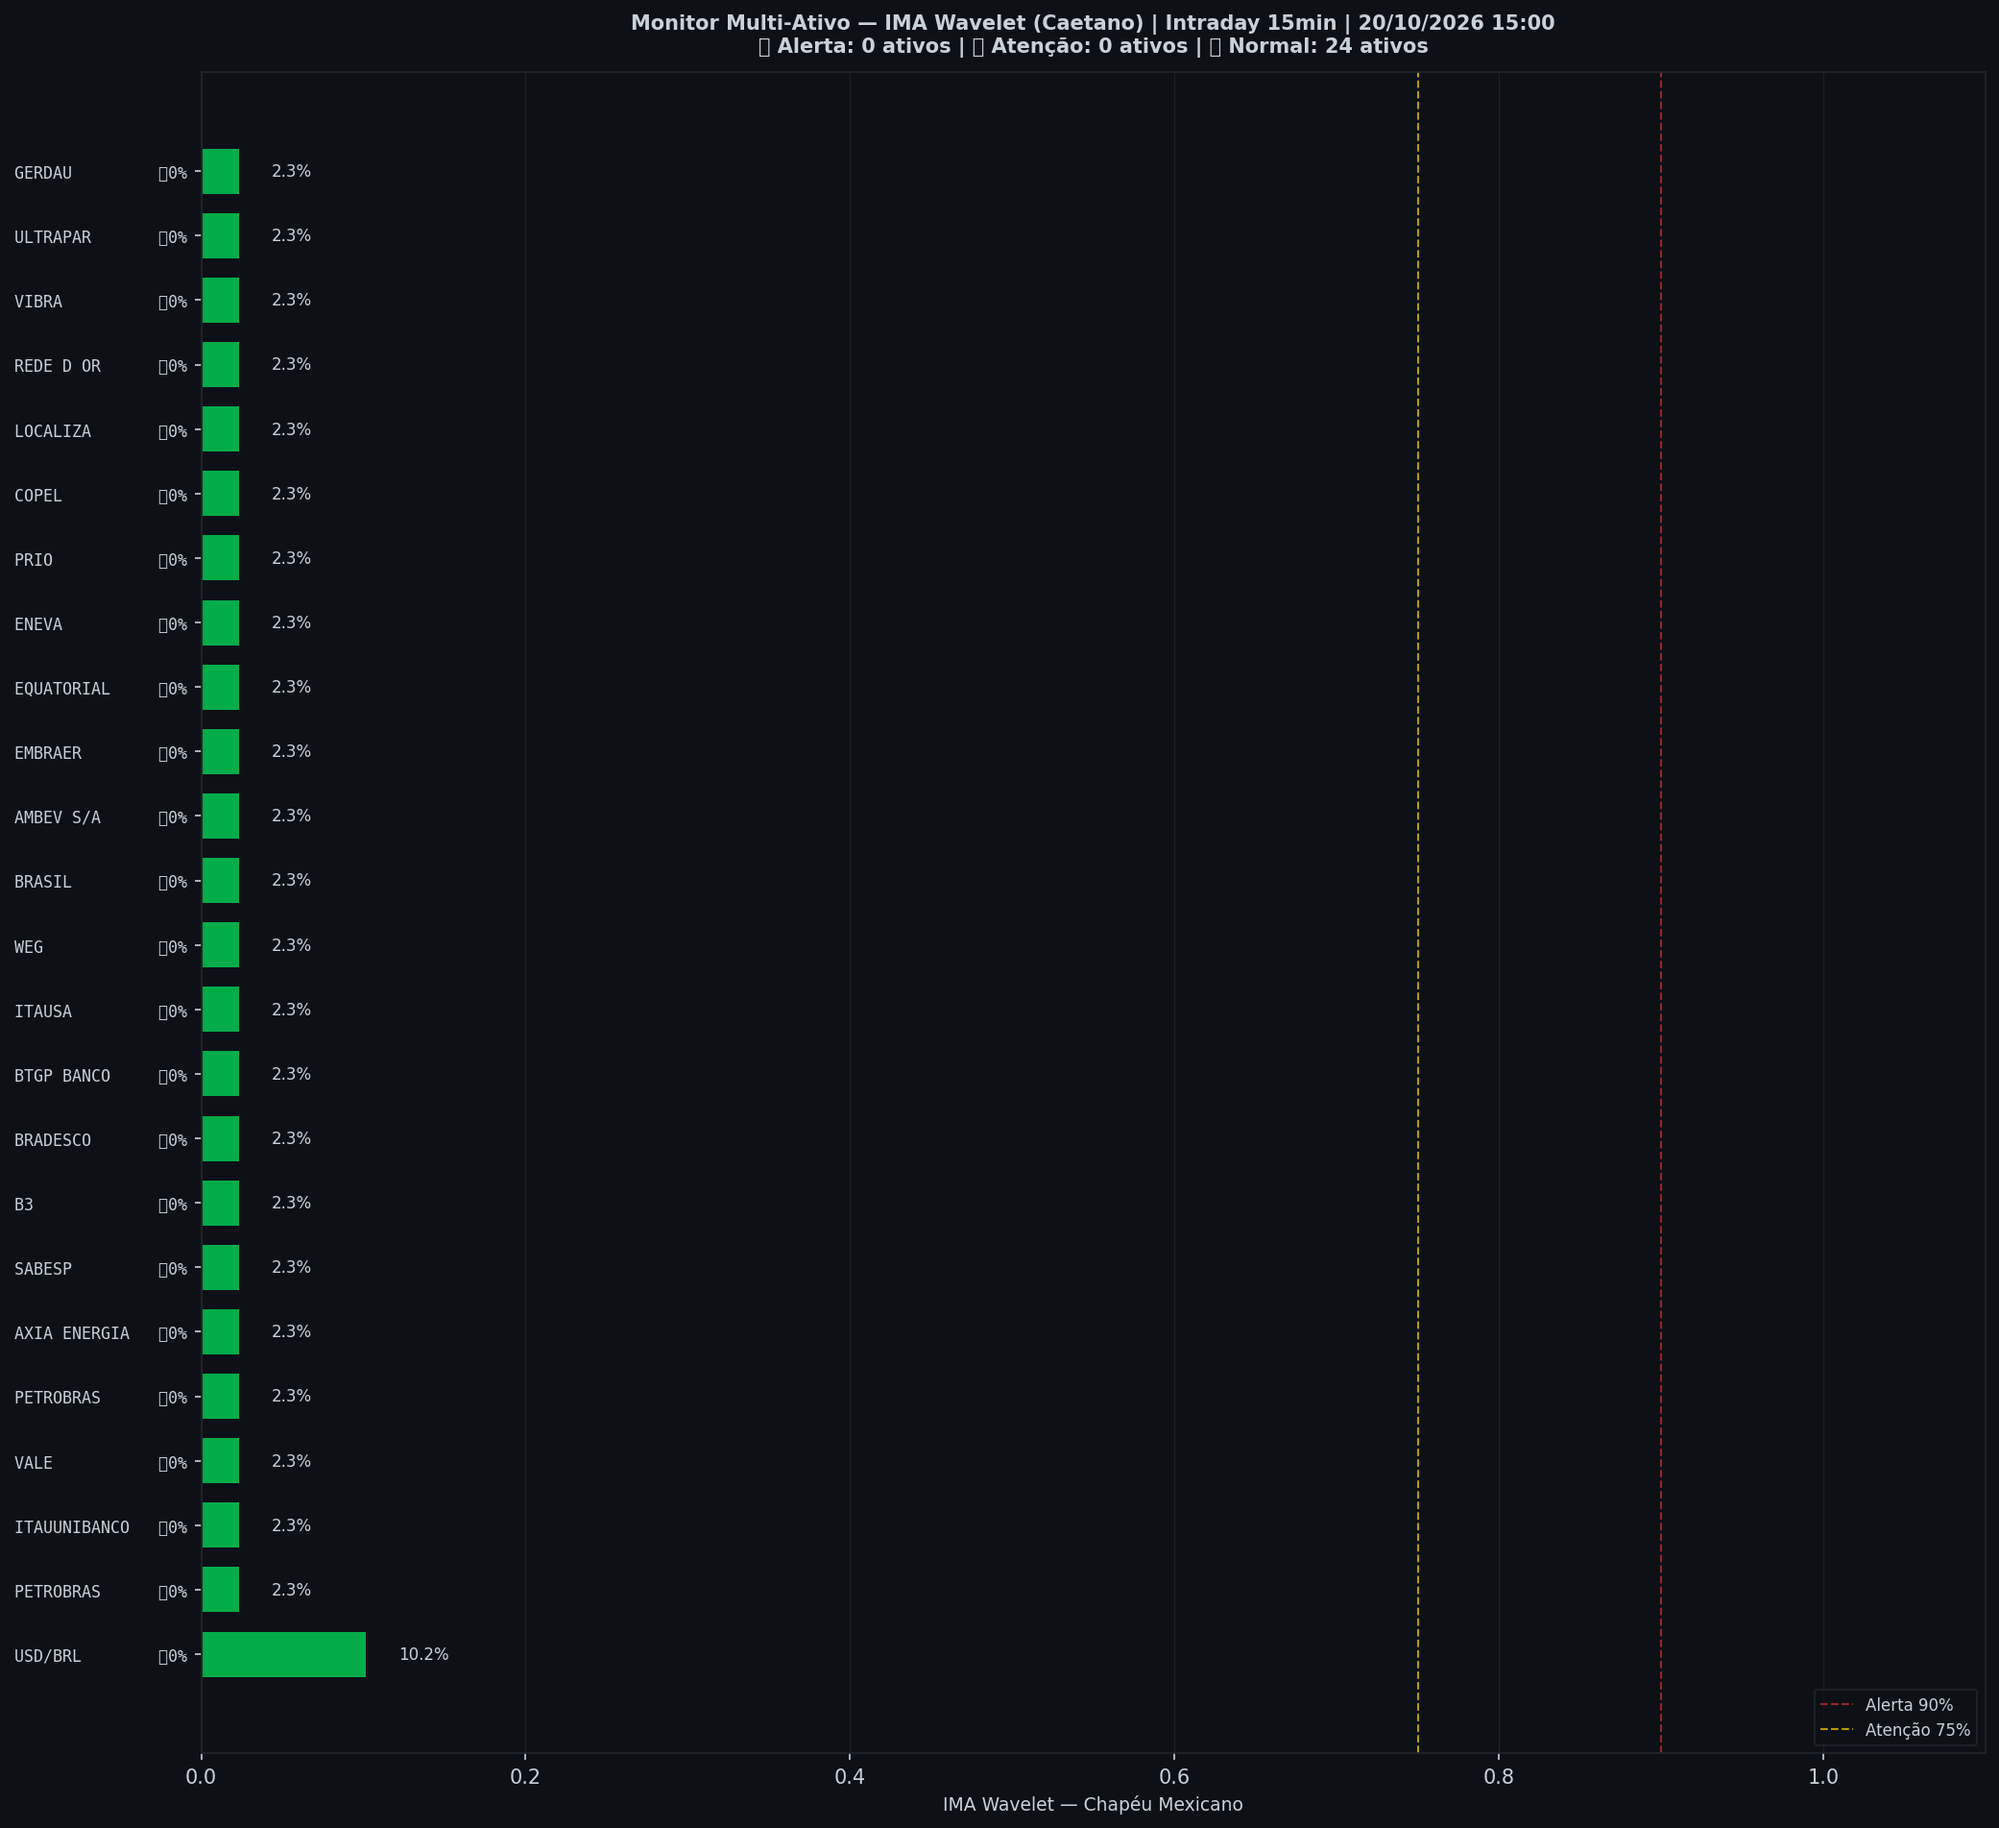
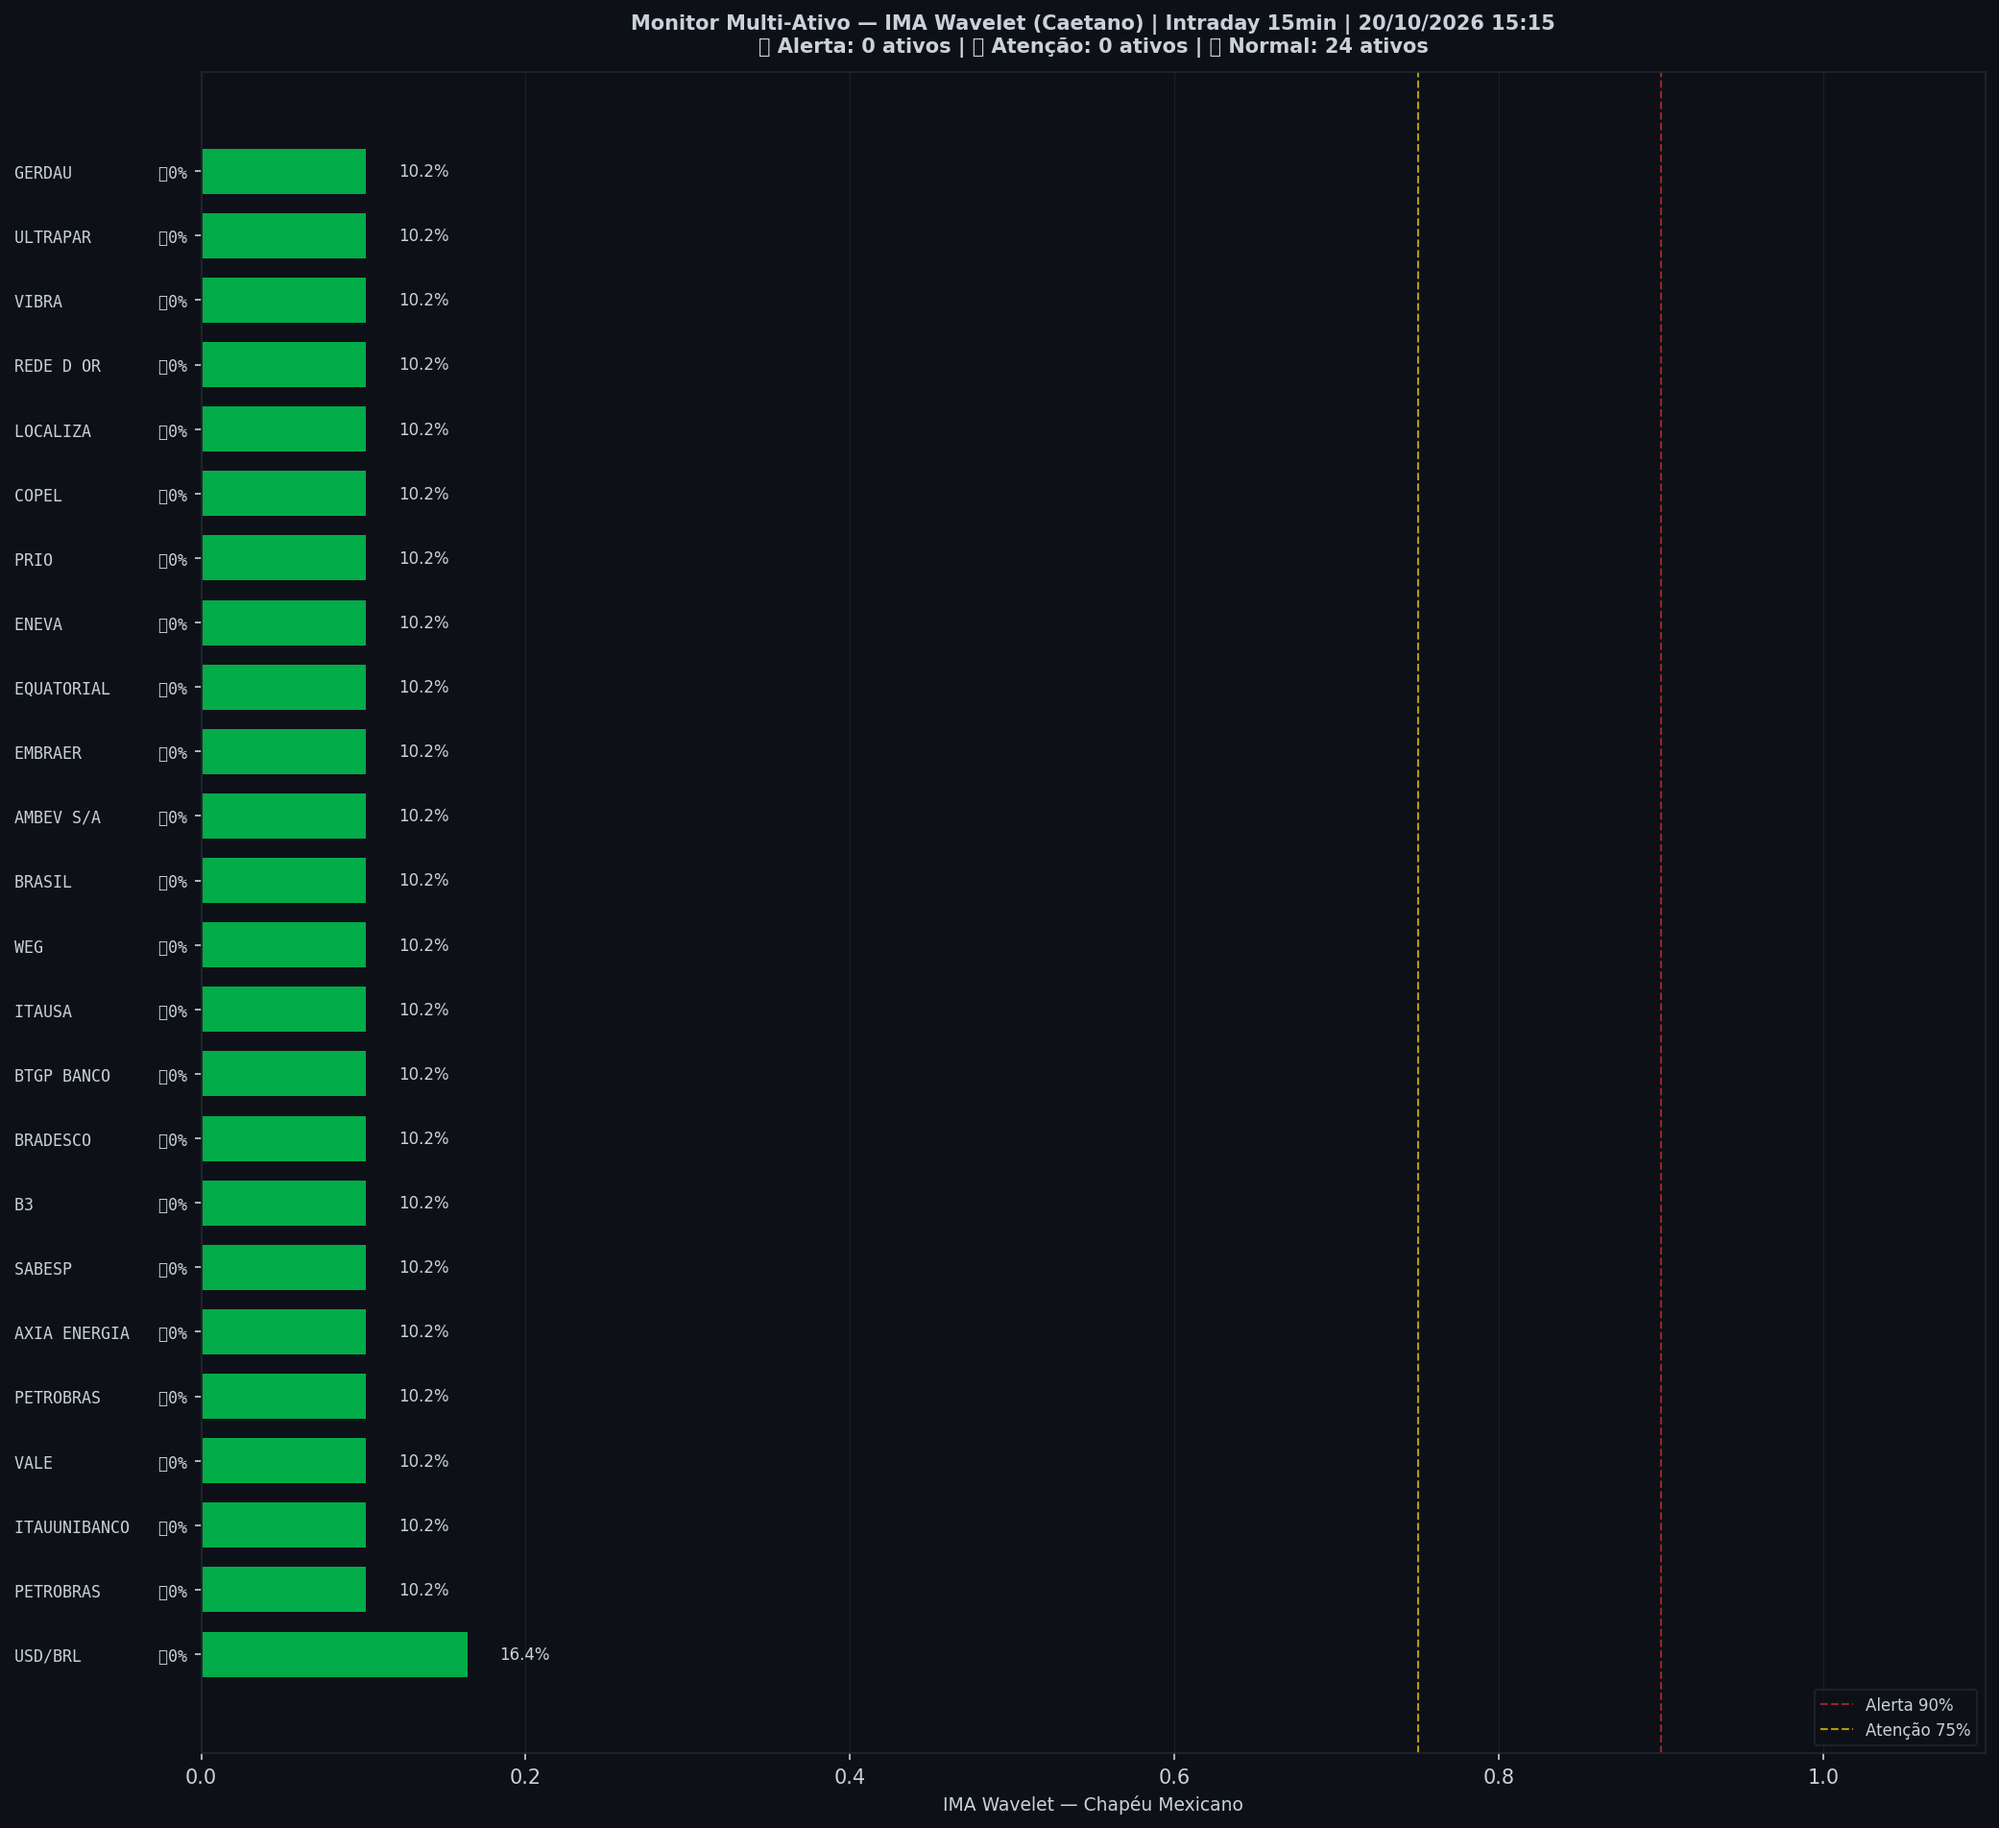
🤖 Auto: Sinal 20/10/2026 15:15

Changed region(s): [[0.0937, 0.062, 0.2498, 0.9301]]

diff --git a/content/intraday/2026-10-20.md b/content/intraday/2026-10-20.md
@@ -1,10 +1,10 @@
 ---
-title: "🟢 Intraday 20/10/2026 14:15 BRT — VERDE"
+title: "🟢 Intraday 20/10/2026 14:30 BRT — VERDE"
 date: 2026-10-20
 tags: [intraday]
 ---
 
-> [!success] 🟢 **VERDE** — Risco 57% · ▲ +2 p.p. vs leitura anterior
+> [!success] 🟢 **VERDE** — Risco 57% · ＝ +0 p.p. vs leitura anterior
 > `███████████░░░░░░░░░`
 > Mercado sem sinais relevantes de estresse.
 
@@ -14,7 +14,7 @@ tags: [intraday]
 | 🔴 ζ Crash — severidade da queda em curso | **57%** |
 | 🔵 ζ Entrada — estrutura de fundo | 0% |
 | 🫧 LPPL DS-Confidence | 0% |
-| 📊 Ibovespa | 208.618 pts |
+| 📊 Ibovespa | 208.279 pts |
 
 ![Gráfico do sinal](../graficos/sinal_intraday.png)
 
@@ -22,6 +22,7 @@ tags: [intraday]
 
 | Data | Zona | Risco | IMA Crash | Entrada | LPPL |
 |---|---|---|---|---|---|
+| 2026-10-20 14:30 | 🟢 VERDE | **57%** | 57% | 0% | 0% |
 | 2026-10-20 14:15 | 🟢 VERDE | **57%** | 57% | 0% | 0% |
 | 2026-10-20 14:00 | 🟢 VERDE | **55%** | 55% | 0% | 0% |
 | 2026-10-20 13:45 | 🟢 VERDE | **58%** | 58% | 0% | 0% |
@@ -51,7 +52,6 @@ tags: [intraday]
 | 2026-10-19 14:45 | 🟢 VERDE | **0%** | 0% | 35% | 0% |
 | 2026-10-19 14:30 | 🟢 VERDE | **0%** | 0% | 40% | 0% |
 | 2026-10-19 14:15 | 🟢 VERDE | **0%** | 0% | 43% | 0% |
-| 2026-10-19 14:00 | 🟢 VERDE | **0%** | 0% | 42% | 0% |
 
 ## Monitor Multi-Ativo
 
@@ -59,34 +59,34 @@ tags: [intraday]
 
 | Zona | Ativo | Setor | IMA Crash | IMA Entrada |
 |---|---|---|---|---|
-| 🟢 | **USD/BRL** | Câmbio | 10.2% | 0.0% |
-| 🟢 | **PETROBRAS** | Petróleo | 2.3% | 0.0% |
-| 🟢 | **ITAUUNIBANCO** | Financeiro | 2.3% | 0.0% |
-| 🟢 | **VALE** | Mineração | 2.3% | 0.0% |
-| 🟢 | **PETROBRAS** | Petróleo | 2.3% | 0.0% |
-| 🟢 | **AXIA ENERGIA** | Energia | 2.3% | 0.0% |
-| 🟢 | **SABESP** | Saneamento | 2.3% | 0.0% |
-| 🟢 | **B3** | Financeiro | 2.3% | 0.0% |
-| 🟢 | **BRADESCO** | Financeiro | 2.3% | 0.0% |
-| 🟢 | **BTGP BANCO** | Financeiro | 2.3% | 0.0% |
-| 🟢 | **ITAUSA** | Financeiro | 2.3% | 0.0% |
-| 🟢 | **WEG** | Industrial | 2.3% | 0.0% |
-| 🟢 | **BRASIL** | Financeiro | 2.3% | 0.0% |
-| 🟢 | **AMBEV S/A** | Consumo | 2.3% | 0.0% |
-| 🟢 | **EMBRAER** | Outros | 2.3% | 0.0% |
-| 🟢 | **EQUATORIAL** | Energia | 2.3% | 0.0% |
-| 🟢 | **ENEVA** | Energia | 2.3% | 0.0% |
-| 🟢 | **PRIO** | Petróleo | 2.3% | 0.0% |
-| 🟢 | **COPEL** | Energia | 2.3% | 0.0% |
-| 🟢 | **LOCALIZA** | Aluguel | 2.3% | 0.0% |
-| 🟢 | **REDE D OR** | Saúde | 2.3% | 0.0% |
-| 🟢 | **VIBRA** | Energia | 2.3% | 0.0% |
-| 🟢 | **ULTRAPAR** | Outros | 2.3% | 0.0% |
-| 🟢 | **GERDAU** | Siderurgia | 2.3% | 0.0% |
+| 🟢 | **USD/BRL** | Câmbio | 16.4% | 0.0% |
+| 🟢 | **PETROBRAS** | Petróleo | 10.2% | 0.0% |
+| 🟢 | **ITAUUNIBANCO** | Financeiro | 10.2% | 0.0% |
+| 🟢 | **VALE** | Mineração | 10.2% | 0.0% |
+| 🟢 | **PETROBRAS** | Petróleo | 10.2% | 0.0% |
+| 🟢 | **AXIA ENERGIA** | Energia | 10.2% | 0.0% |
+| 🟢 | **SABESP** | Saneamento | 10.2% | 0.0% |
+| 🟢 | **B3** | Financeiro | 10.2% | 0.0% |
+| 🟢 | **BRADESCO** | Financeiro | 10.2% | 0.0% |
+| 🟢 | **BTGP BANCO** | Financeiro | 10.2% | 0.0% |
+| 🟢 | **ITAUSA** | Financeiro | 10.2% | 0.0% |
+| 🟢 | **WEG** | Industrial | 10.2% | 0.0% |
+| 🟢 | **BRASIL** | Financeiro | 10.2% | 0.0% |
+| 🟢 | **AMBEV S/A** | Consumo | 10.2% | 0.0% |
+| 🟢 | **EMBRAER** | Outros | 10.2% | 0.0% |
+| 🟢 | **EQUATORIAL** | Energia | 10.2% | 0.0% |
+| 🟢 | **ENEVA** | Energia | 10.2% | 0.0% |
+| 🟢 | **PRIO** | Petróleo | 10.2% | 0.0% |
+| 🟢 | **COPEL** | Energia | 10.2% | 0.0% |
+| 🟢 | **LOCALIZA** | Aluguel | 10.2% | 0.0% |
+| 🟢 | **REDE D OR** | Saúde | 10.2% | 0.0% |
+| 🟢 | **VIBRA** | Energia | 10.2% | 0.0% |
+| 🟢 | **ULTRAPAR** | Outros | 10.2% | 0.0% |
+| 🟢 | **GERDAU** | Siderurgia | 10.2% | 0.0% |
 
 ![Monitor multi-ativo](../graficos/multi_intraday.png)
 
-*Página atualizada em 20/10/2026 15:00 BRT (leitura da barra de 2026-10-20 14:15 BRT).*
+*Página atualizada em 20/10/2026 15:15 BRT (leitura da barra de 2026-10-20 14:30 BRT).*
 
 > [!info]- Como interpretar (clique para expandir)
 > - **ζ Crash**: fração dos coeficientes wavelet acima do corte (Caetano & Yoneyama 2009). Escala absoluta: ζ=0,90 = 90% dos coeficientes anômalos — historicamente, quedas com ζ≥0,90 foram mais fundas e mais longas. **Mede a severidade do movimento em curso, não prevê o início da queda.**

diff --git a/content/index.md b/content/index.md
@@ -8,9 +8,9 @@ tags: [home]
 
 Monitoramento diário e intraday do Ibovespa — **IMA Wavelet** (Prof. Marco Antonio Leonel Caetano, ITA/INSPER) + **LPPL DS-Confidence** (Prof. Didier Sornette, ETH-Zurich).
 
-*Última atualização: 20/10/2026 15:00 BRT · ^BVSP · Intraday 15min · v4*
+*Última atualização: 20/10/2026 15:15 BRT · ^BVSP · Intraday 15min · v4*
 
-> [!success] 🟢 **VERDE** — Risco 57% · ▲ +2 p.p. vs leitura anterior
+> [!success] 🟢 **VERDE** — Risco 57% · ＝ +0 p.p. vs leitura anterior
 > `███████████░░░░░░░░░`
 > Mercado sem sinais relevantes de estresse.
 
@@ -20,7 +20,7 @@ Monitoramento diário e intraday do Ibovespa — **IMA Wavelet** (Prof. Marco An
 | 🔴 ζ Crash — severidade da queda em curso | **57%** |
 | 🔵 ζ Entrada — estrutura de fundo | 0% |
 | 🫧 LPPL DS-Confidence | 0% |
-| 📊 Ibovespa | 208.618 pts |
+| 📊 Ibovespa | 208.279 pts |
 
 **Multi-ativo:** 0% em tensão (0🔴 0🟡 de 24 ativos)
 

diff --git a/content/historico.md b/content/historico.md
@@ -7,6 +7,7 @@ tags: [historico]
 
 | Data | Modo | Zona | Risco | IMA | LPPL |
 |---|---|---|---|---|---|
+| 2026-10-20 14:30 | intraday | 🟢 VERDE | 57% | 57% | 0% |
 | 2026-10-20 14:15 | intraday | 🟢 VERDE | 57% | 57% | 0% |
 | 2026-10-20 14:00 | intraday | 🟢 VERDE | 55% | 55% | 0% |
 | 2026-10-20 13:45 | intraday | 🟢 VERDE | 58% | 58% | 0% |
